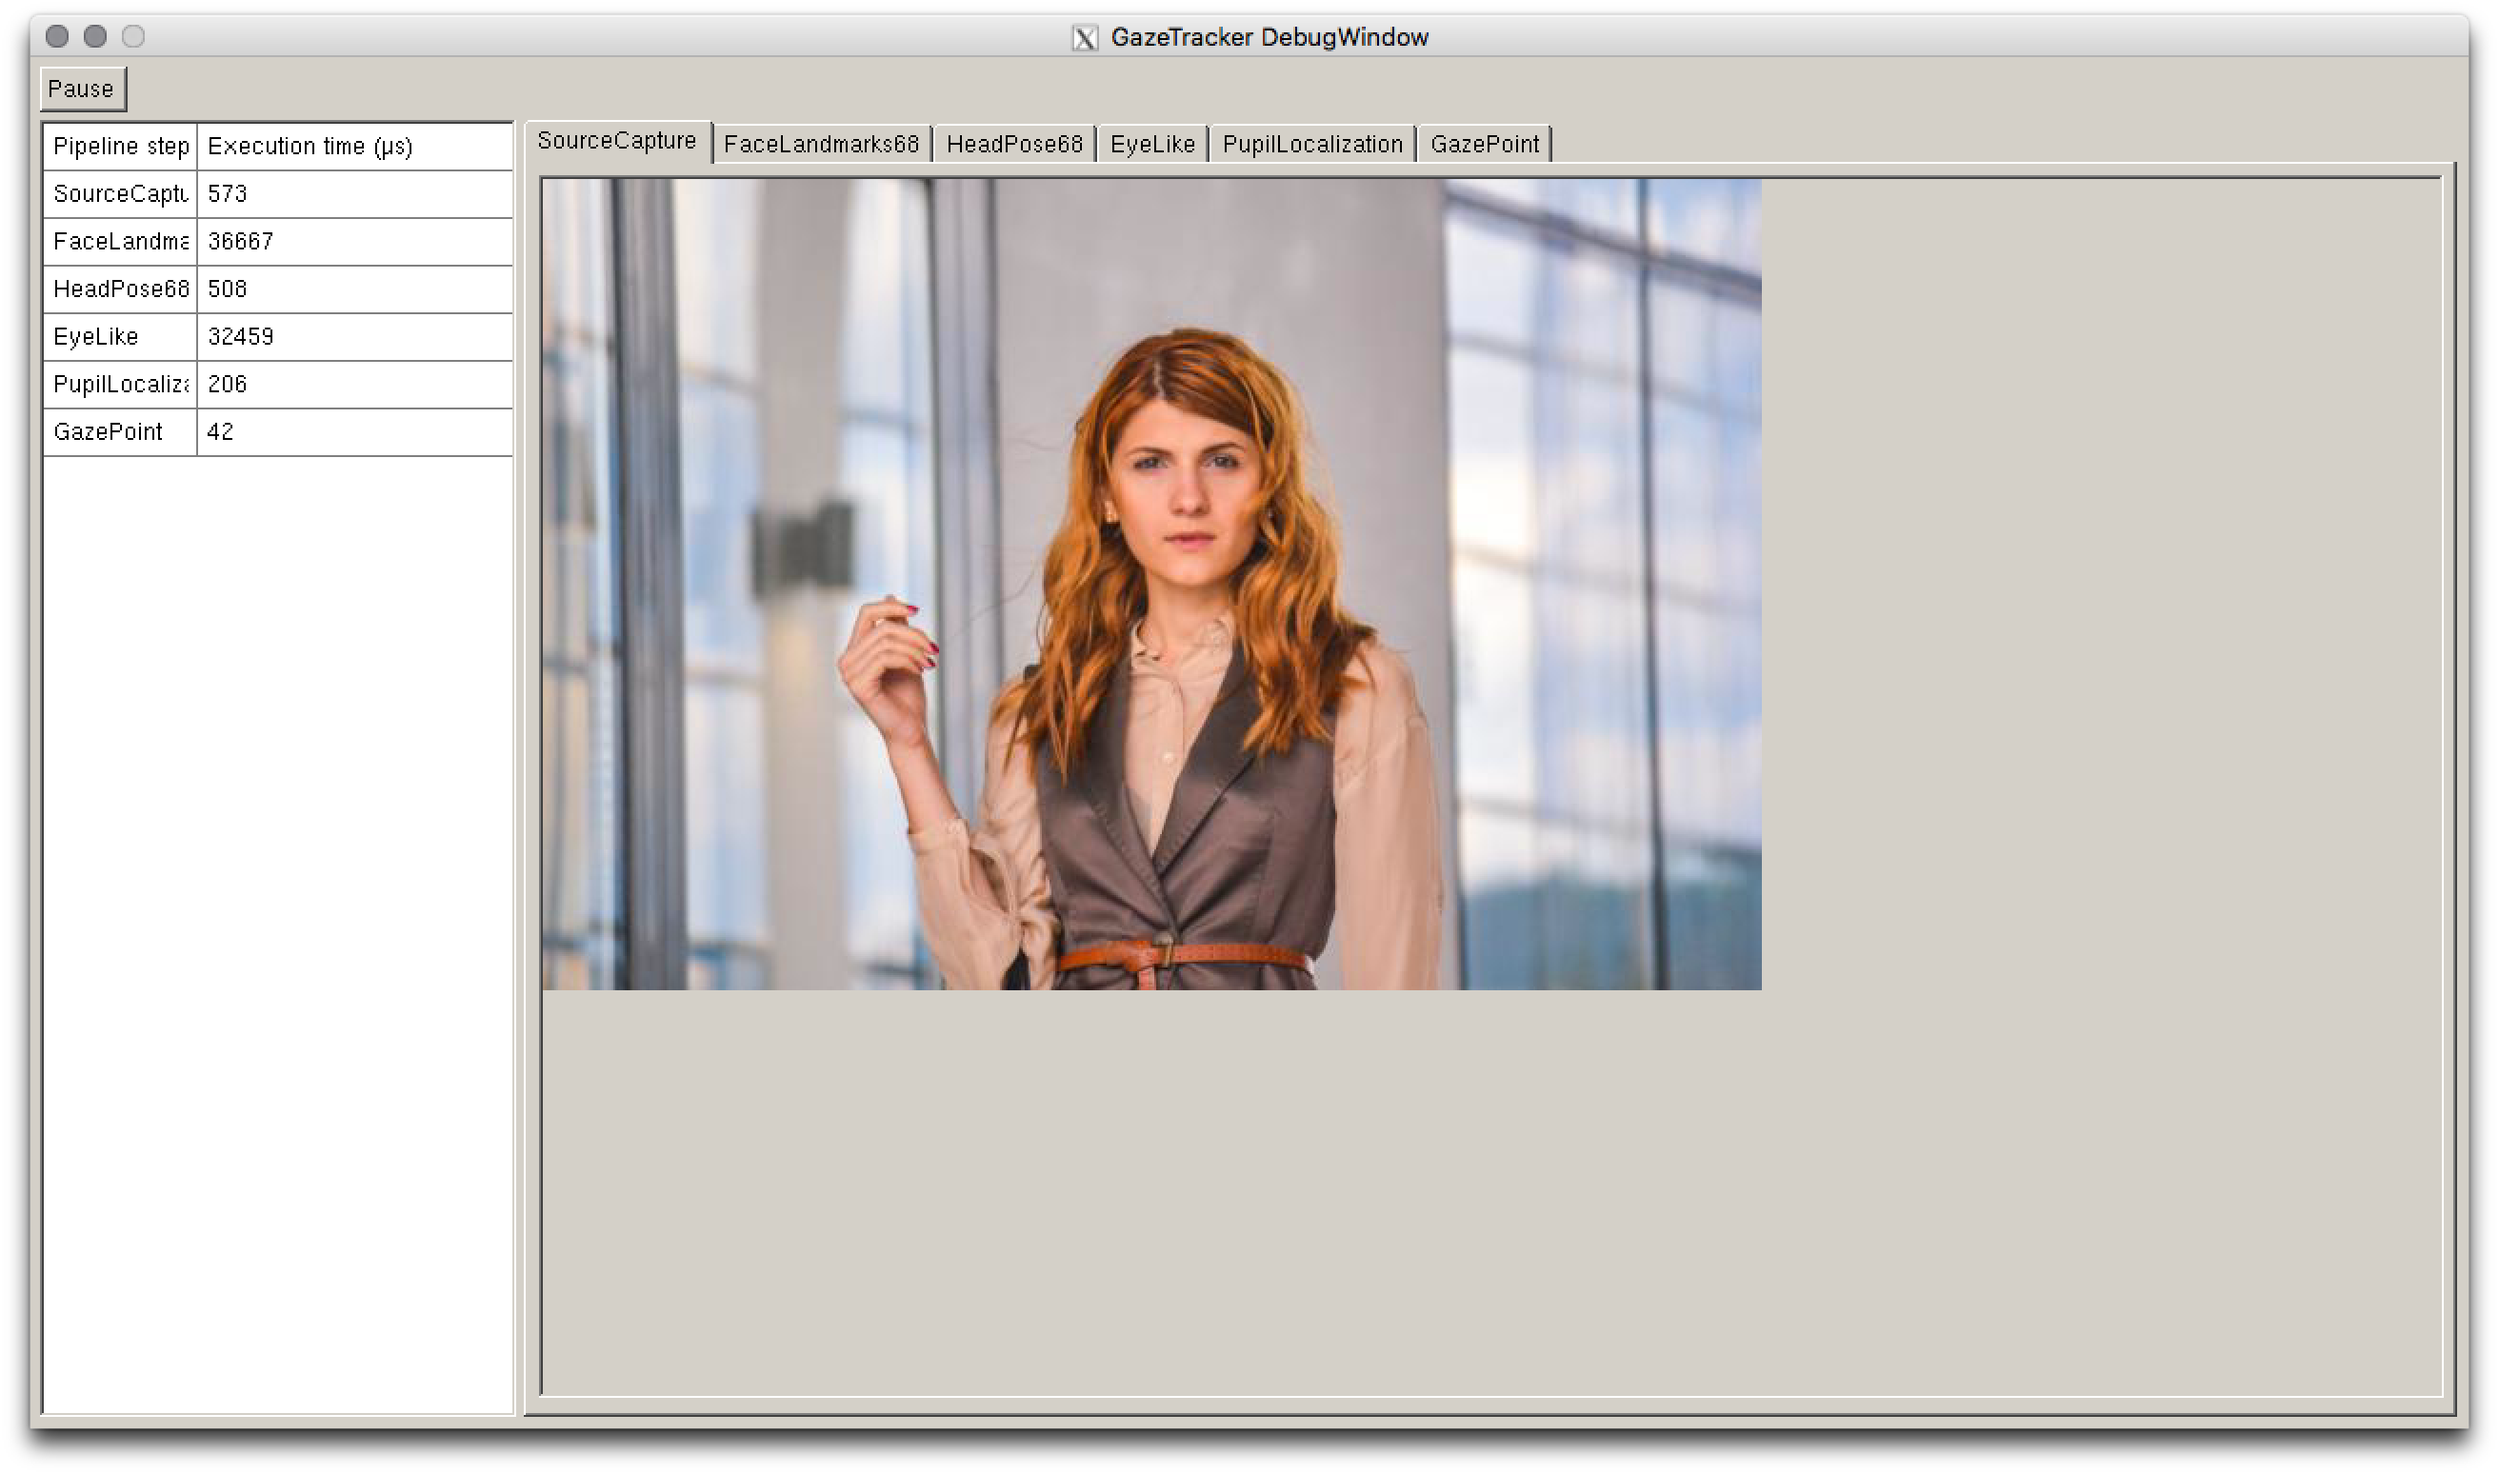
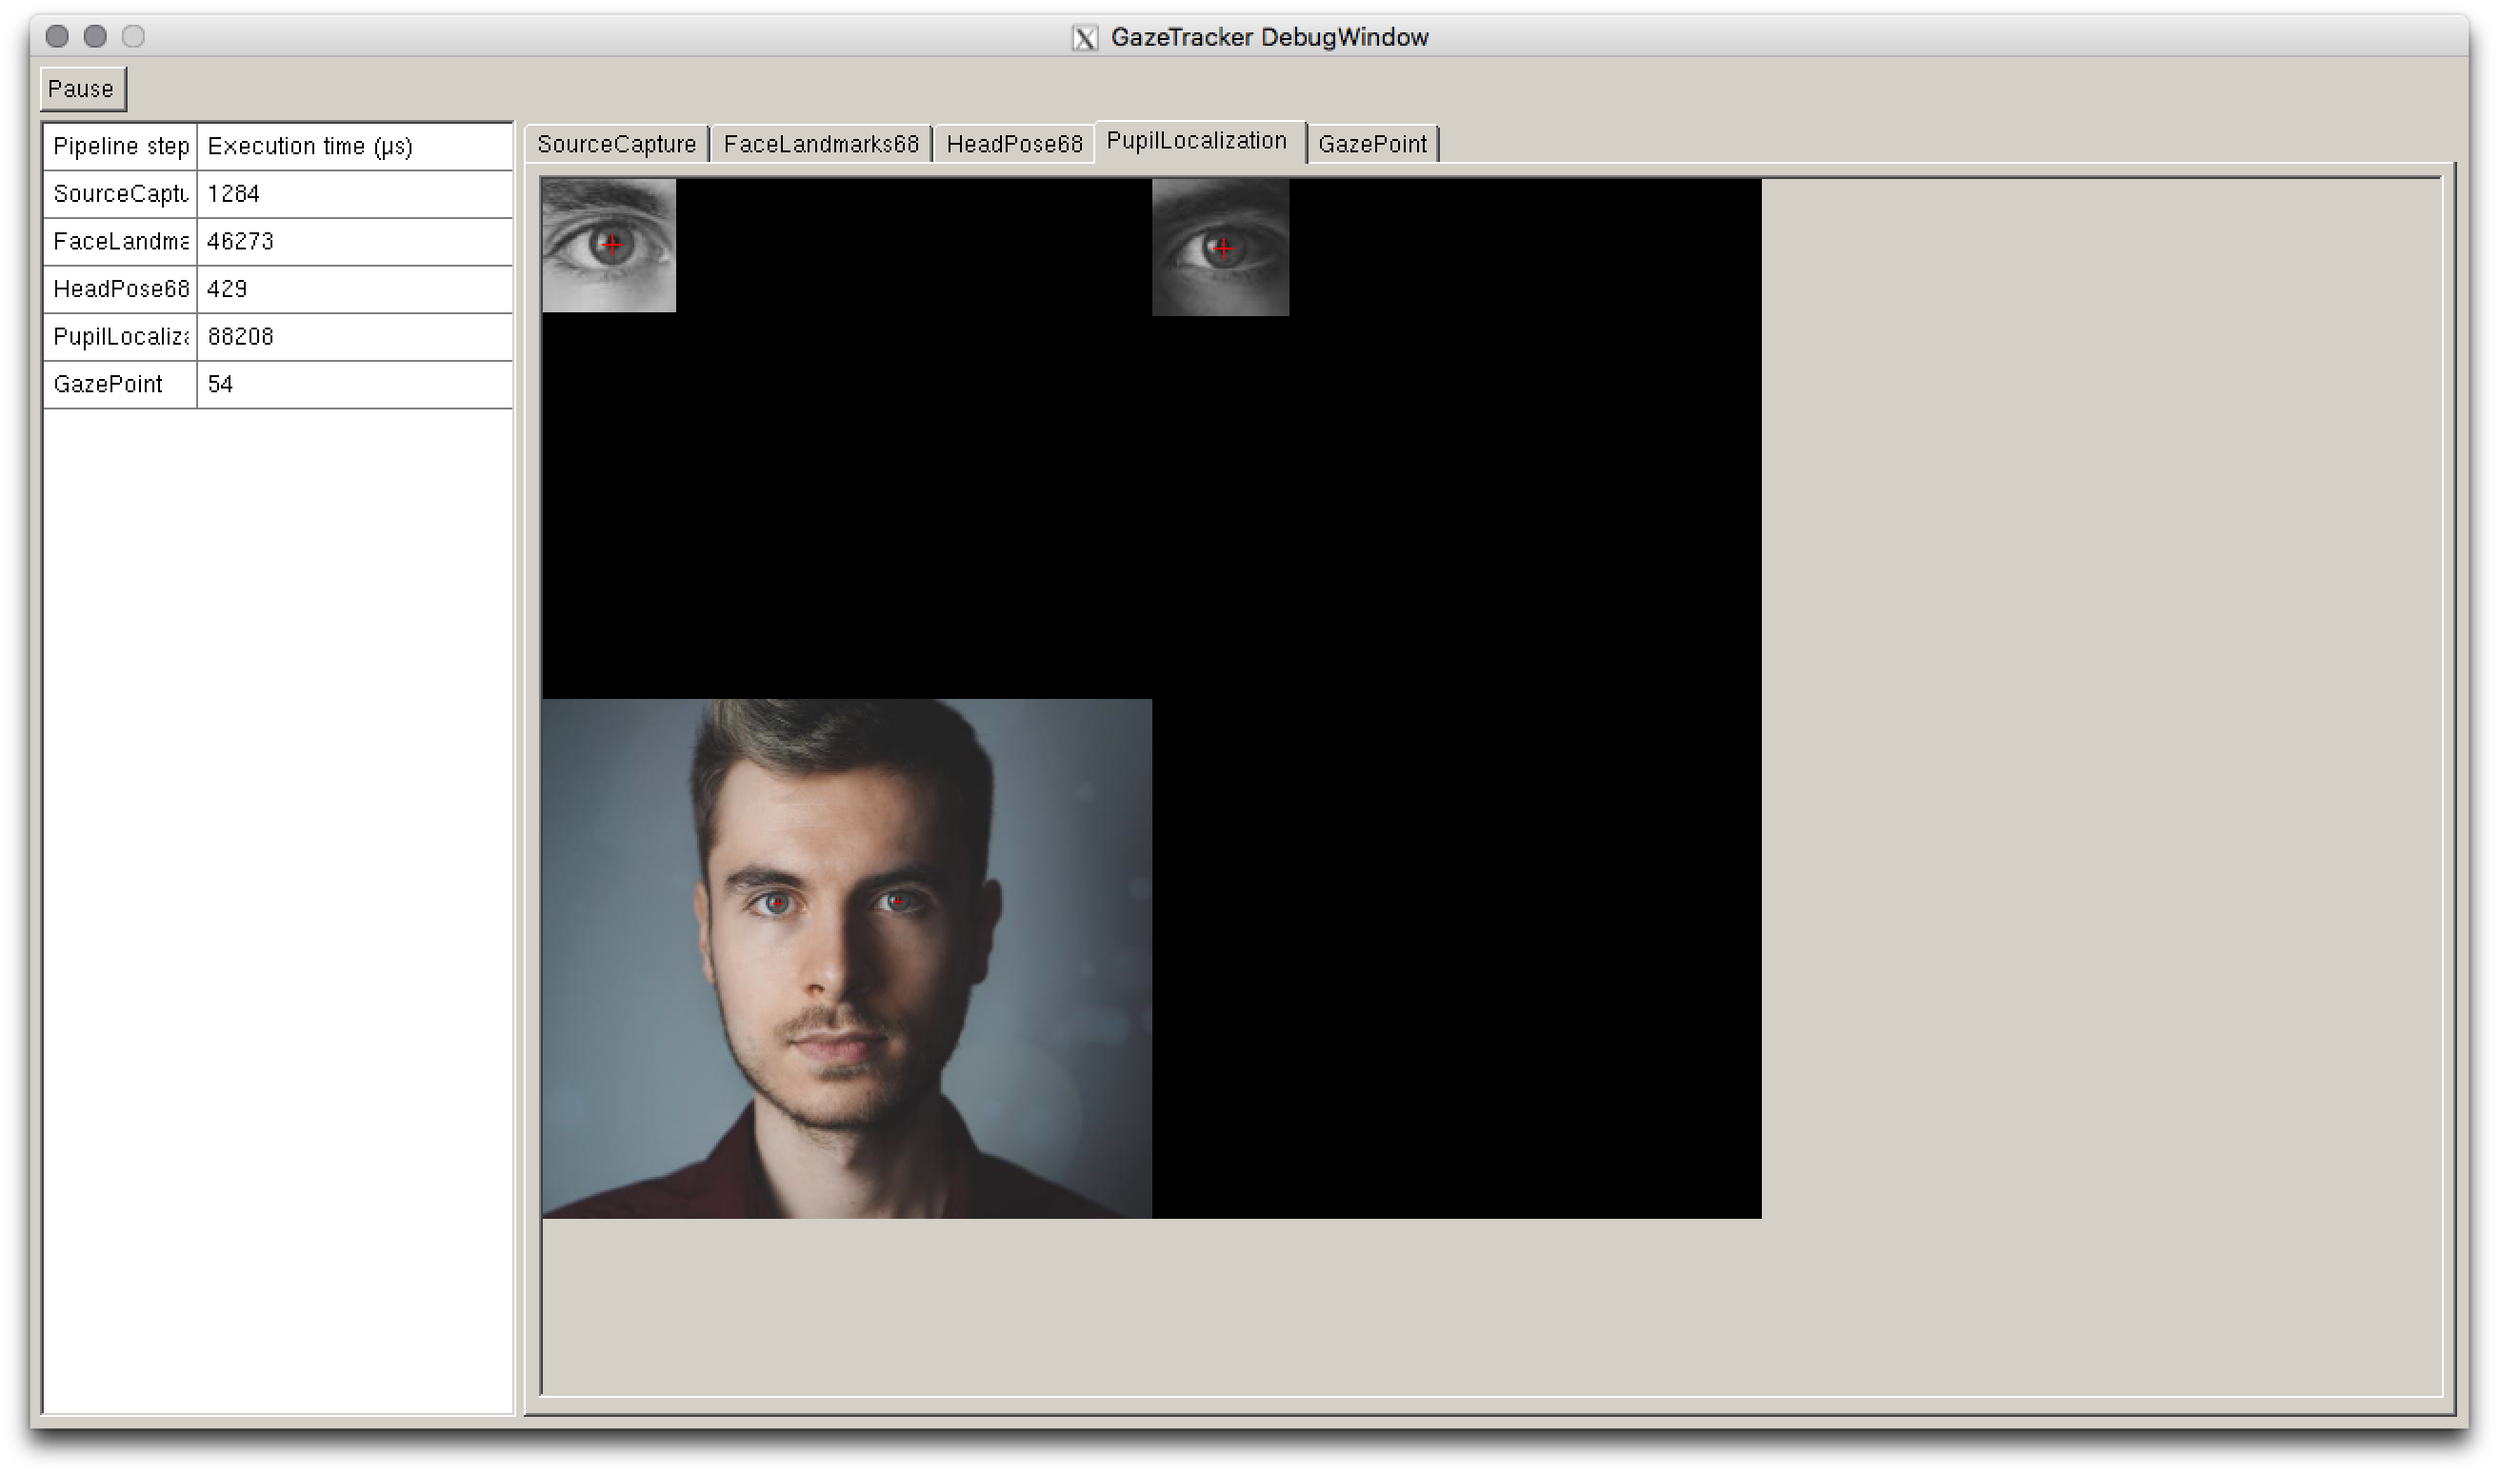
Adding better DebugWindow Screenshot.

diff --git a/src/gaze_library.md b/src/gaze_library.md
@@ -240,9 +240,7 @@ soon as it is closed, \Gaze{} will close its debug +GUI as well and stop trackin
 
 ![\Gaze{}'s debug GUI.;;\Gaze{}'s debug +GUI. On the left, the pipeline steps are listed along with their
 computation times in \si{\micro\second}. The tabs can be used to switch between
-pipeline step visualizations.](gazedebuggui.png){#fig:gazedebuggui}
-
-TODO(shoeffner): Replace photograph with less distracting one (maybe convert image to grayscale)
+pipeline step visualizations, here the pupil localization is shown.](gazedebuggui.png){#fig:gazedebuggui}
 
 In their paper, @Judd2009 investigate salient regions of images. The program
 `where_people_look` is a re-implementation of @Judd2009's experiment using
